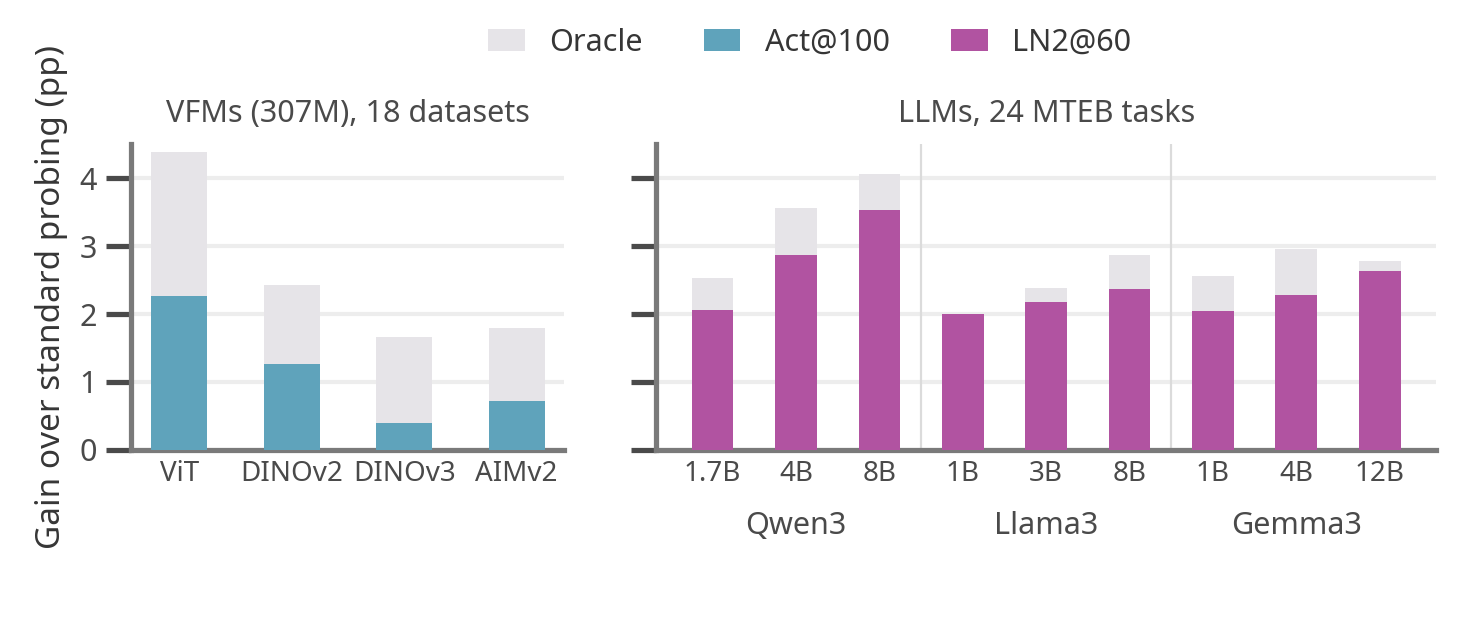
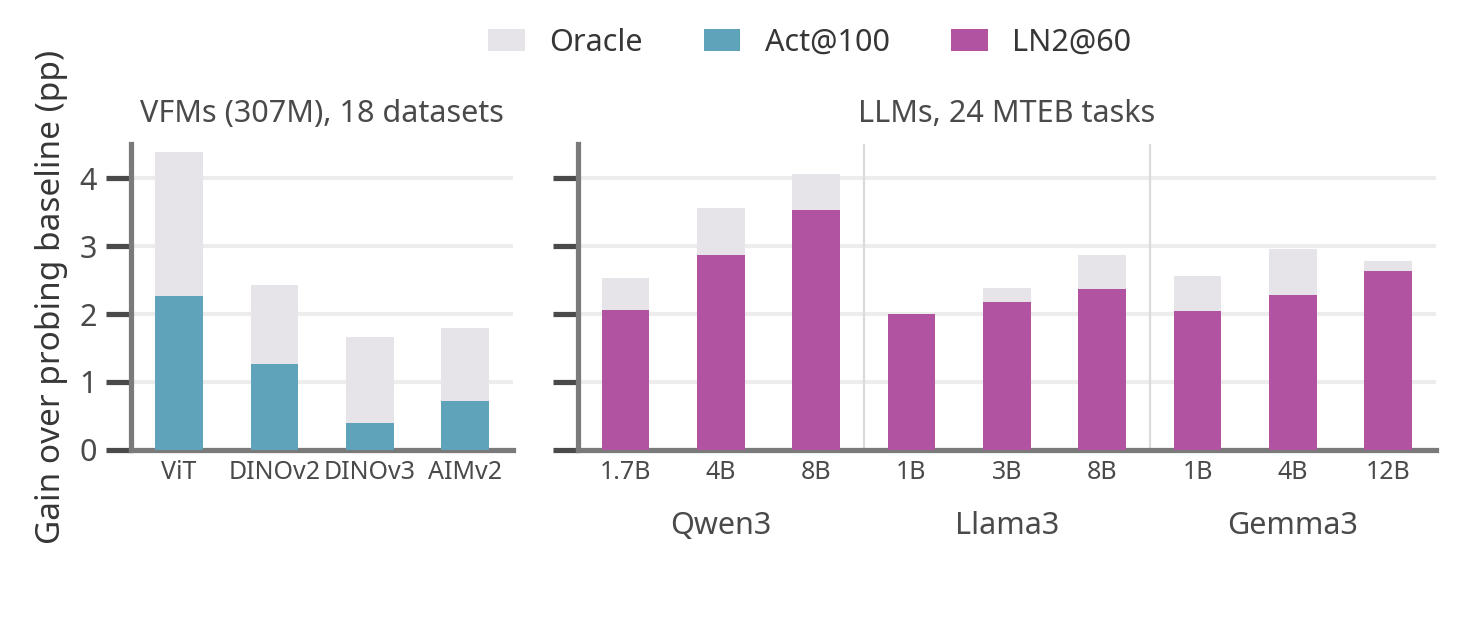
Use the probing baseline wording, move the explorer to the end, add a discussion

diff --git a/index.html b/index.html
@@ -4,7 +4,7 @@
   <meta charset="utf-8">
   <meta name="viewport" content="width=device-width, initial-scale=1">
   <title>Probing Transformer Representations</title>
-  <meta name="description" content="Probing every layer and every module of 15 vision foundation models and 9 LLMs: standard probing is rarely the best choice, and two fixed rules recover much of the gain without search.">
+  <meta name="description" content="Probing every layer and every module of 15 vision foundation models and 9 LLMs: the probing baseline is rarely the best choice, and two fixed rules recover much of the gain without search.">
   <meta name="keywords" content="probing, representations, transformers, vision foundation models, large language models, linear probing, MTEB">
   <meta name="author" content="Ambroise Odonnat, Théo Gnassounou, Laetitia Chapel, Romain Tavenard, Ievgen Redko">
   <link rel="canonical" href="https://ambroiseodt.github.io/waldo/">
@@ -113,7 +113,7 @@
   <section class="section">
     <div class="container is-max-desktop">
       <div class="question content">
-        <h2 class="title is-3">What does standard probing read?</h2>
+        <h2 class="title is-3">What does the probing baseline read?</h2>
         <div class="block-layout">
           <figure><img src="static/images/transformer_block.png" width="800" height="449" alt="Diagram of a transformer block with the eight probed modules, for a standard FFN and a gated FFN."></figure>
           <dl class="module-list">
@@ -127,8 +127,8 @@
             <dt class="kw-rc2">RC2</dt><dd>residual stream at the block output</dd>
           </dl>
         </div>
-        <p>A transformer block exposes eight intermediate representations. Standard probing reads one of them, <span class="kw-rc2">RC2</span>, at the last layer: we call it <span class="kw-rc2">RC2@100</span>. We probe all eight at every layer, in a single forward pass, with linear probing on 18 image datasets for vision foundation models (VFMs) and on the 24 classification tasks of MTEB(Multilingual) for LLMs.</p>
-        <p>Each location is compared to standard probing. The <strong>oracle gain</strong> is the accuracy of the best layer-module pair minus that of <span class="kw-rc2">RC2@100</span>, in percentage points (pp). It is an upper bound: finding that pair needs an exhaustive search and test labels.</p>
+        <p>A transformer block exposes eight intermediate representations. Probing usually reads one of them, <span class="kw-rc2">RC2</span>, at the last layer (sometimes after an additional normalization layer). We take it as the probing baseline, <span class="kw-rc2">RC2@100</span>. We probe all eight at every layer, in a single forward pass, with linear probing on 18 image datasets for vision foundation models (VFMs) and on the 24 classification tasks of MTEB(Multilingual) for LLMs.</p>
+        <p>Each location is compared to the probing baseline. The <strong>oracle gain</strong> is the accuracy of the best layer-module pair minus that of <span class="kw-rc2">RC2@100</span>, in percentage points (pp). It is an upper bound: finding that pair needs an exhaustive search and test labels.</p>
       </div>
     </div>
   </section>
@@ -136,15 +136,15 @@
   <section class="section">
     <div class="container is-max-desktop">
       <div class="question content">
-        <h2 class="title is-3">How much does standard probing leave on the table?</h2>
+        <h2 class="title is-3">How much does the probing baseline leave on the table?</h2>
         <dl class="key-numbers">
-          <div><dt>260 / 270</dt><dd>VFM model-dataset pairs where another location beats standard probing</dd></div>
+          <div><dt>260 / 270</dt><dd>VFM model-dataset pairs where another location beats the probing baseline</dd></div>
           <div><dt>+2.2 pp</dt><dd>average oracle gain in VFMs, up to +10.5 pp</dd></div>
           <div><dt>+2.9 pp</dt><dd>average oracle gain in LLMs, from +2.0 to +4.1 pp across the 9 models</dd></div>
         </dl>
         <p>The gain comes from choosing the layer and the module together. Searching over both beats searching over the layers of the residual stream or over the modules of the last layer, in both modalities. In LLMs, the residual stream is never part of the best pair.</p>
-        <figure><img src="static/images/cdf_vision_cls.png" width="736" height="330" alt="Complementary cumulative distribution of the gain over standard probing across 270 VFM model-dataset pairs, for the best layer, the best module and the best layer-module pair. The joint curve lies above the others and reaches 10 pp."><figcaption>VFMs: share of the 270 model-dataset pairs with a gain above x, when choosing the best layer, the best module, or both.</figcaption></figure>
-        <figure><img src="static/images/model_family_language_mteb.png" width="736" height="310" alt="Bar chart of the gain over standard probing for the 9 LLMs, for the best layer, the best module and the best layer-module pair. The joint gain ranges from 2.0 to 4.1 pp."><figcaption>LLMs: gain over standard probing on MTEB(Multilingual), for the best layer, the best module, or both.</figcaption></figure>
+        <figure><img src="static/images/cdf_vision_cls.png" width="736" height="330" alt="Complementary cumulative distribution of the gain over the probing baseline across 270 VFM model-dataset pairs, for the best layer, the best module and the best layer-module pair. The joint curve lies above the others and reaches 10 pp."><figcaption>VFMs: share of the 270 model-dataset pairs with a gain above x, for the best layer, the best module, or both.</figcaption></figure>
+        <figure><img src="static/images/model_family_language_mteb.png" width="736" height="310" alt="Bar chart of the gain over the probing baseline for the 9 LLMs, for the best layer, the best module and the best layer-module pair. The joint gain ranges from 2.0 to 4.1 pp."><figcaption>LLMs: gain over the probing baseline on MTEB(Multilingual), for the best layer, the best module, or both.</figcaption></figure>
       </div>
     </div>
   </section>
@@ -154,7 +154,47 @@
       <div class="question content">
         <h2 class="title is-3">Where are the better representations?</h2>
         <p>For vision, mostly in the FFN activation of the last layers: <span class="kw-act">Act</span> is in the best pair for 64.8% of the model-dataset pairs, against 5.9% for the residual stream. For language, in the second normalization at intermediate depth: <span class="kw-ln2">LN2</span> is in the best pair for 8 of the 9 LLMs, at 48% to 78% of the depth.</p>
-        <p><strong>Try it yourself.</strong> Pick a model, then click any cell, or use the layer and module controls, to compare that location with standard probing, our fixed rule and the best location.</p>
+        <p>The heatmaps of the animation above show where the best pair lies across all models. You can explore each model and dataset at the end of this page.</p>
+      </div>
+    </div>
+  </section>
+
+  <section class="section">
+    <div class="container is-max-desktop">
+      <div class="question content">
+        <h2 class="title is-3">Can we get there without search?</h2>
+        <p>Yes, with one fixed location per modality. <span class="kw-act">Act@100</span>, the FFN activation of the last layer, improves over the probing baseline in 63.7% of the 270 VFM evaluations. <span class="kw-ln2">LN2@60</span>, the second normalization at 60% depth, improves on 21 of the 24 MTEB tasks and on all 9 LLMs.</p>
+        <figure><img src="static/images/fixed_rules.png" width="736" height="320" alt="Bar chart of the gain over the probing baseline per model. For VFMs (307M variants), Act@100 gains 2.3, 1.3, 0.4 and 0.7 pp against oracle gains of 4.4, 2.4, 1.7 and 1.8 pp for ViT, DINOv2, DINOv3 and AIMv2. For the 9 LLMs, LN2@60 gains 2.0 to 3.5 pp against oracle gains of 2.0 to 4.1 pp."><figcaption>Gain of the fixed rule (colored) against the oracle gain (gray), per model.</figcaption></figure>
+        <p>On average, <span class="kw-act">Act@100</span> recovers 42% of the oracle gain in VFMs and <span class="kw-ln2">LN2@60</span> recovers 86% in LLMs, more than the best layer of the residual stream in both cases. Probing the best layer of the same module recovers 78.1% and 99.8%.</p>
+      </div>
+    </div>
+  </section>
+
+  <section class="section">
+    <div class="container is-max-desktop">
+      <div class="question content">
+        <h2 class="title is-3">When does it matter most?</h2>
+        <p>The benefits of optimal probing locations increase with the distribution shift between pretraining and downstream data. In VFMs, the oracle gain grows with transfer difficulty, measured by the probing error of the baseline (Spearman ρ = 0.87). On the distribution shifts of WILDS and DomainNet, <span class="kw-act">Act@100</span> improves 25 of the 28 evaluations of the 307M variants, by +1.8 pp on average.</p>
+        <figure><img src="static/images/transfer_difficulty_vision_cls.png" width="736" height="350" alt="Scatter plot of the oracle gain per dataset against the mean probing error of the baseline, with a rising trend line. Cifar10 has a small gain, Quickdraw a large one."><figcaption>VFMs: oracle gain per dataset against transfer difficulty.</figcaption></figure>
+      </div>
+    </div>
+  </section>
+
+  <section class="section">
+    <div class="container is-max-desktop">
+      <div class="question content">
+        <h2 class="title is-3">What does it mean for future work?</h2>
+        <p>Transformer blocks are not monolithic: where a representation is read inside the block matters as much as how deep it sits. When transformers are used as frozen feature extractors, the module is a choice worth making alongside the layer, and the fixed rules give a cheap default, one extra hook in the same forward pass.</p>
+        <p>Our analysis focuses on linear probing for classification. Natural next steps are other downstream tasks and other modalities, such as tabular and time series foundation models. Knowing which internal representations are useful could also guide the design of aggregation mechanisms that combine intermediate representations, rather than treating all layers and modules uniformly.</p>
+      </div>
+    </div>
+  </section>
+
+  <section class="section">
+    <div class="container is-max-desktop">
+      <div class="question content">
+        <h2 class="title is-3">Explore the results yourself</h2>
+        <p>Pick a model, then click any cell, or use the module and layer controls, to compare that location with the probing baseline (○), the fixed rule (◇) and the best location (★).</p>
       </div>
       <div class="explorer page-column" id="explorer">
         <div class="explorer-controls">
@@ -174,27 +214,6 @@
         <div class="explorer-depth" id="explorer-depth"></div>
         <dl class="readout" id="explorer-readout" aria-live="polite"></dl>
         <div class="explorer-legend" id="explorer-legend"></div>
-      </div>
-    </div>
-  </section>
-
-  <section class="section">
-    <div class="container is-max-desktop">
-      <div class="question content">
-        <h2 class="title is-3">Can we get there without search?</h2>
-        <p>Yes, with one fixed location per modality. <span class="kw-act">Act@100</span>, the FFN activation of the last layer, improves over standard probing in 63.7% of the 270 VFM evaluations. <span class="kw-ln2">LN2@60</span>, the second normalization at 60% depth, improves on 21 of the 24 MTEB tasks and on all 9 LLMs.</p>
-        <figure><img src="static/images/fixed_rules.png" width="736" height="320" alt="Bar chart of the gain over standard probing per model. For VFMs (307M variants), Act@100 gains 2.3, 1.3, 0.4 and 0.7 pp against oracle gains of 4.4, 2.4, 1.7 and 1.8 pp for ViT, DINOv2, DINOv3 and AIMv2. For the 9 LLMs, LN2@60 gains 2.0 to 3.5 pp against oracle gains of 2.0 to 4.1 pp."><figcaption>Gain of the fixed rule (colored) against the oracle gain (gray), per model.</figcaption></figure>
-        <p>On average, <span class="kw-act">Act@100</span> recovers 41.9% of the oracle gain in VFMs and <span class="kw-ln2">LN2@60</span> recovers 86.0% in LLMs, more than the best layer of the residual stream in both cases. Probing the best layer of the same module recovers 78.1% and 99.8%.</p>
-      </div>
-    </div>
-  </section>
-
-  <section class="section">
-    <div class="container is-max-desktop">
-      <div class="question content">
-        <h2 class="title is-3">When does it matter most?</h2>
-        <p>When the downstream data departs from pretraining. In VFMs, the oracle gain grows with transfer difficulty, measured by the probing error of standard probing (Spearman ρ = 0.87). On the distribution shifts of WILDS and DomainNet, <span class="kw-act">Act@100</span> improves 25 of the 28 evaluations of the 307M variants, by +1.8 pp on average.</p>
-        <figure><img src="static/images/transfer_difficulty_vision_cls.png" width="736" height="350" alt="Scatter plot of the oracle gain per dataset against the mean probing error of standard probing, with a rising trend line. Cifar10 has a small gain, Quickdraw a large one."><figcaption>VFMs: oracle gain per dataset against transfer difficulty.</figcaption></figure>
       </div>
     </div>
   </section>

diff --git a/static/js/waldo.js b/static/js/waldo.js
@@ -90,7 +90,7 @@
     chart.querySelector("svg")?.remove();
     const svg = el("svg", {
       viewBox: `0 0 ${width} ${height}`, width, height, role: "img",
-      "aria-label": `Probing accuracy of ${state.model} at each layer and module. Cells above standard probing are purple.`,
+      "aria-label": `Probing accuracy of ${state.model} at each layer and module. Cells above the probing baseline are purple.`,
     });
     D.modules.forEach((name, m) => {
       el("text", { x: left - 8, y: cy(m) + 4, "text-anchor": "end", class: "mod" }, svg).textContent = name;
@@ -139,11 +139,11 @@
     const ruleValue = grid[ruleLayer][rule.module];
     $("explorer-readout").innerHTML = `
       <div class="pick"><dt>▢ Your pick: ${D.modules[state.pickModule]} (${MODULE_NAMES[state.pickModule]}) at ${depth(pickLayer)}% depth</dt><dd>${pct(pick)}<small>${pp(pick - base)}${share(pick)}</small></dd></div>
-      <div><dt>○ Standard probing, RC2@100</dt><dd>${pct(base)}<small>residual stream, last layer</small></dd></div>
+      <div><dt>○ Probing baseline, RC2@100</dt><dd>${pct(base)}<small>residual stream, last layer</small></dd></div>
       <div><dt>◇ ${rule.name}, fixed rule</dt><dd>${pct(ruleValue)}<small>${pp(ruleValue - base)}${share(ruleValue)}</small></dd></div>
       <div><dt>★ Best location, oracle</dt><dd>${pct(bestValue)}<small>${pp(oracle)}, ${D.modules[best[1]]} (${MODULE_NAMES[best[1]]}) at ${depth(best[0])}% depth</small></dd></div>`;
     $("explorer-legend").innerHTML = `
-      <span><span class="swatch"></span>not better than standard probing</span>
+      <span><span class="swatch"></span>not better than the probing baseline</span>
       <span>better: +0<span class="ramp" style="background:linear-gradient(90deg,${D.ramp.join(",")})"></span>${pp(oracle)}</span>
       <span>${state.mode === "vision" ? "Top-1 test accuracy of linear probing" : "Average accuracy over the 24 classification tasks of MTEB(Multilingual)"}</span>`;
   }

diff --git a/static/css/waldo.css b/static/css/waldo.css
@@ -58,6 +58,7 @@
 .explorer-pick { padding-top: 0.75rem; border-top: 1px solid #ededed; }
 .explorer-pick-label { font-weight: 600; color: var(--waldo-ink); align-self: center; min-width: 6.5rem; }
 .explorer-field { display: grid; gap: 0.2rem; font-size: 0.8rem; color: var(--waldo-muted); }
+.explorer-field[hidden] { display: none; }
 .explorer-field select { font: inherit; font-size: 0.95rem; color: var(--waldo-ink); background: #fff; border: 1px solid var(--waldo-line); border-radius: 4px; padding: 0.3rem 0.5rem; min-width: 9.5rem; }
 .explorer-field input[type="range"] { width: 12rem; accent-color: var(--waldo-ink); }
 .segmented { display: inline-flex; gap: 0.4rem; }
